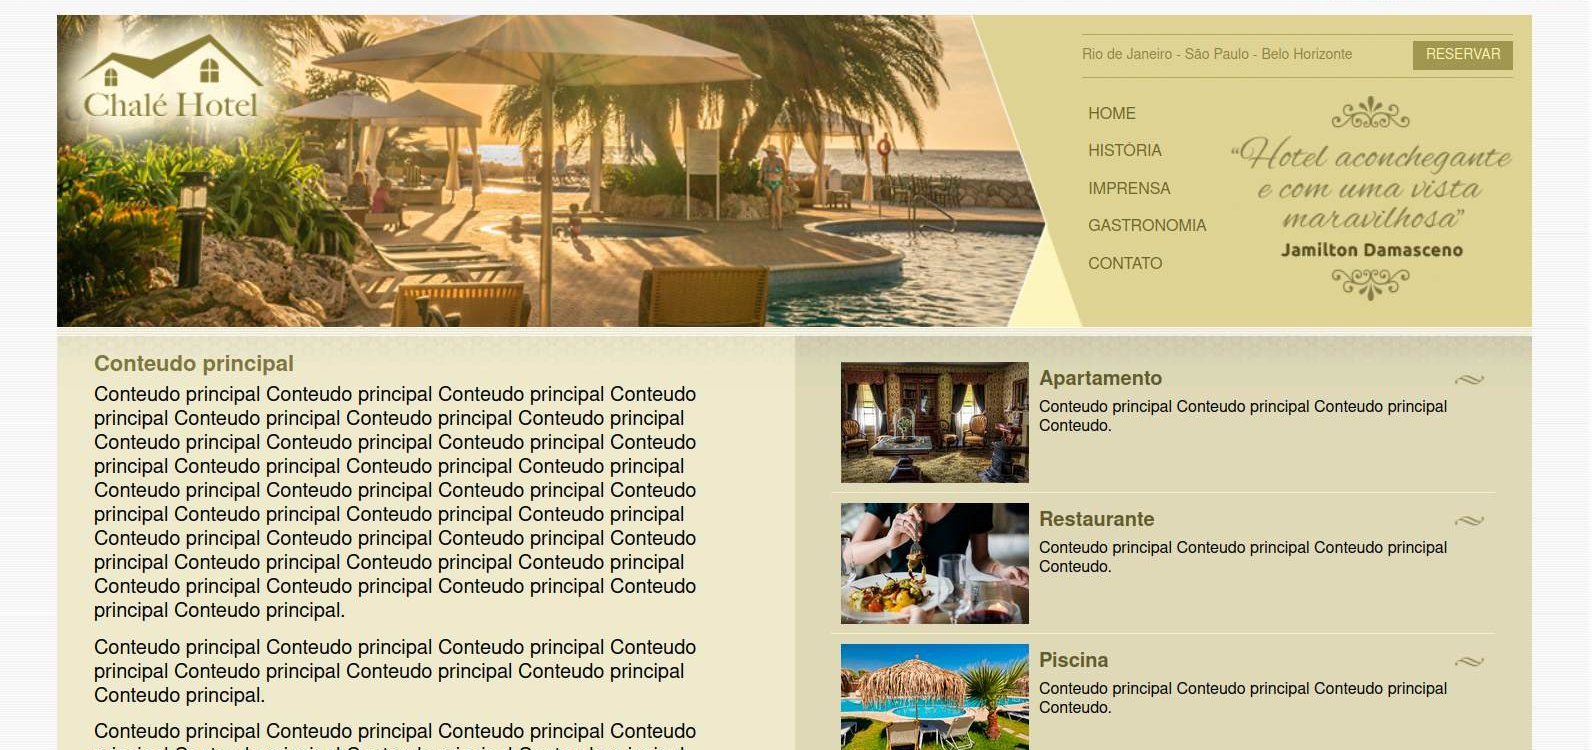
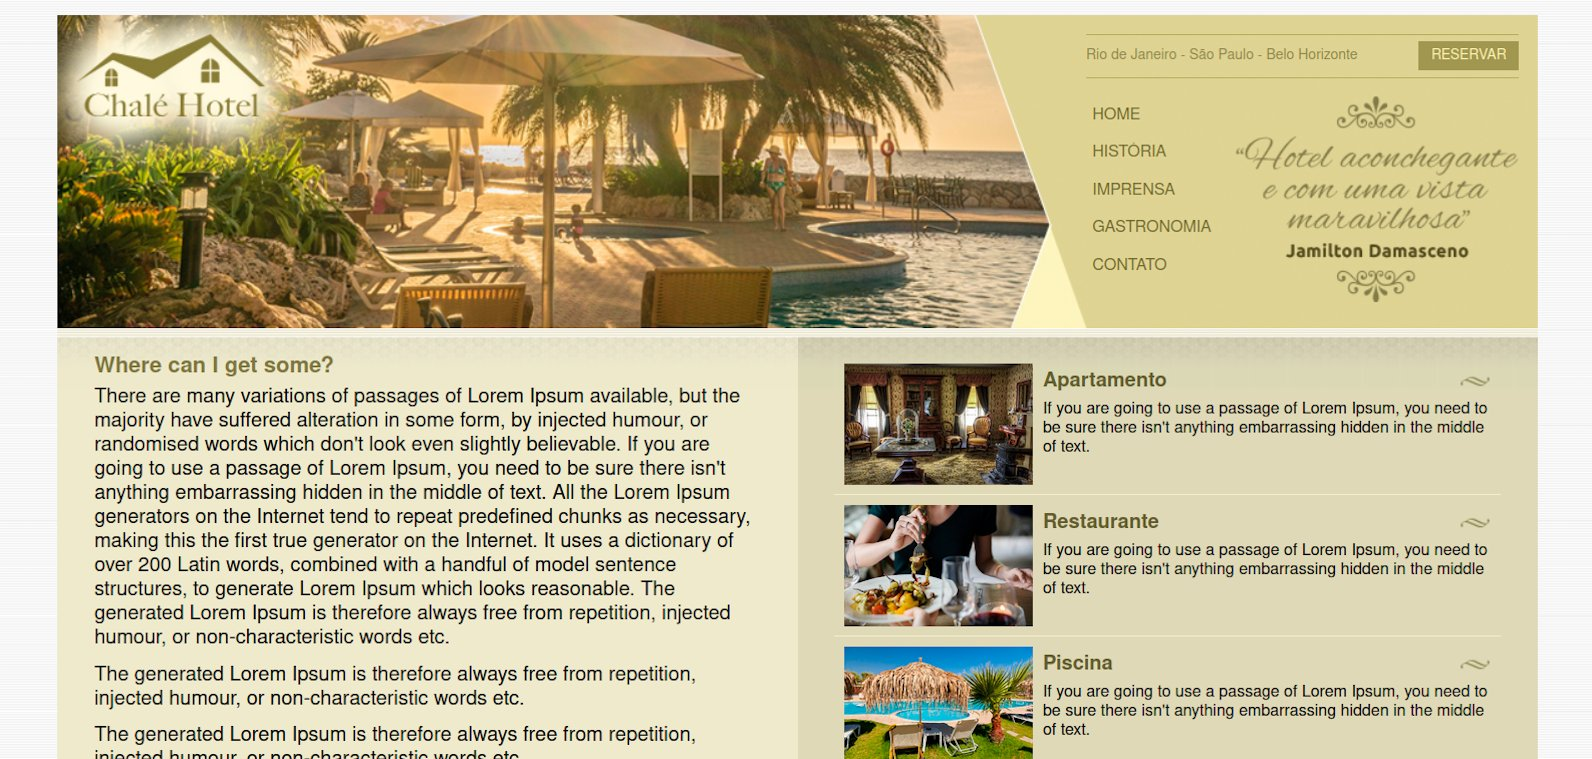
Alteracoes e correcoes de erros

Changed region(s): [[0.0308, 0.0, 0.9849, 1.0], [0.6771, 0.1227, 0.7079, 0.1533]]

diff --git a/projetos/chaleHotel/chaleHotel.html b/projetos/chaleHotel/chaleHotel.html
@@ -38,15 +38,16 @@
 		
 			<div id="area-principal">
 				<div class="conteudo">
-					<h2>Conteudo principal</h2>
+					<h2>Where can I get some?</h2>
 					<p>
-						Conteudo principal Conteudo principal Conteudo principal Conteudo principal Conteudo principal Conteudo principal Conteudo principal Conteudo principal Conteudo principal Conteudo principal Conteudo principal Conteudo principal Conteudo principal Conteudo principal Conteudo principal Conteudo principal Conteudo principal Conteudo principal Conteudo principal Conteudo principal Conteudo principal Conteudo principal Conteudo principal Conteudo principal Conteudo principal Conteudo principal Conteudo principal Conteudo principal Conteudo principal Conteudo principal Conteudo principal Conteudo principal Conteudo principal.
+						
+There are many variations of passages of Lorem Ipsum available, but the majority have suffered alteration in some form, by injected humour, or randomised words which don't look even slightly believable. If you are going to use a passage of Lorem Ipsum, you need to be sure there isn't anything embarrassing hidden in the middle of text. All the Lorem Ipsum generators on the Internet tend to repeat predefined chunks as necessary, making this the first true generator on the Internet. It uses a dictionary of over 200 Latin words, combined with a handful of model sentence structures, to generate Lorem Ipsum which looks reasonable. The generated Lorem Ipsum is therefore always free from repetition, injected humour, or non-characteristic words etc.
 					</p> 
 					<p>
-						Conteudo principal Conteudo principal Conteudo principal Conteudo principal Conteudo principal Conteudo principal Conteudo principal Conteudo principal.
+						The generated Lorem Ipsum is therefore always free from repetition, injected humour, or non-characteristic words etc.
 					</p> 
 					<p>
-						Conteudo principal Conteudo principal Conteudo principal Conteudo principal Conteudo principal Conteudo principal Conteudo principal Conteudo principal.
+						The generated Lorem Ipsum is therefore always free from repetition, injected humour, or non-characteristic words etc.
 					</p> 
 				</div>
 			</div>
@@ -59,7 +60,7 @@
 								<img src="imagens/apartamento.jpg" width="150" alt="Apartamento">
 								<h3>Apartamento</h3>
 								<p>
-									Conteudo principal Conteudo principal Conteudo principal Conteudo.
+									If you are going to use a passage of Lorem Ipsum, you need to be sure there isn't anything embarrassing hidden in the middle of text.
 								</p>
 							</a>
 						</li>
@@ -68,7 +69,7 @@
 								<img src="imagens/restaurante.jpg" width="150" alt="Restaurante">
 								<h3>Restaurante</h3>
 								<p>
-									Conteudo principal Conteudo principal Conteudo principal Conteudo.
+									If you are going to use a passage of Lorem Ipsum, you need to be sure there isn't anything embarrassing hidden in the middle of text.
 								</p>
 							</a>
 						</li>
@@ -77,7 +78,7 @@
 								<img src="imagens/piscina.jpg" width="150" alt="Piscina">
 								<h3>Piscina</h3>
 								<p>
-									Conteudo principal Conteudo principal Conteudo principal Conteudo.
+									If you are going to use a passage of Lorem Ipsum, you need to be sure there isn't anything embarrassing hidden in the middle of text.
 								</p>
 							</a>
 						</li>

diff --git a/index.html b/index.html
@@ -4,10 +4,14 @@
         <meta charset="UTF-8">
         <meta http-equiv="X-UA-Compatible" content="IE=edge">
         <meta name="viewport" content="width=device-width, initial-scale=1.0">
+        <meta name="description" content="Um site portfólio com trabalhos acadêmicos e ideias pessoais.">
+        <meta name="keywords" content="Portfólio, Othon, HTML, CSS, JavaScript, Bootstrap"> 
+        <meta name="robots" content="index, follow">
+        <meta name="author" content="Othon Santos da Silva">
         <link rel="icon" href="img/favicon.png">
         <link rel="stylesheet" href="css/estilo.css">
         <script src="https://kit.fontawesome.com/11a0ae1d38.js" crossorigin="anonymous"></script>
-        <title>Othon Portifólio</title>
+        <title>Othon - Portfólio</title>
     </head>
     <body>
         <div class="grid">

diff --git a/sobre.html b/sobre.html
@@ -54,7 +54,7 @@
 
                             Conhecendo algumas tecnologias, como HTML, CSS, JavaScript e SQL venho através deste site portfólio
                             demonstrar um pouco dos meus conhecimentos adquiridos não só na faculdade, mas também em cursos online
-                            que constantemente veio realizando. Como dito anteriormente o objetivo é ser Full Stack, então reconheço
+                            que constantemente venho realizando. Como dito anteriormente o objetivo é ser Full Stack, então reconheço
                             que há muito o que ser estudado, e é o que faço.  
                         </p>
                     </section>
